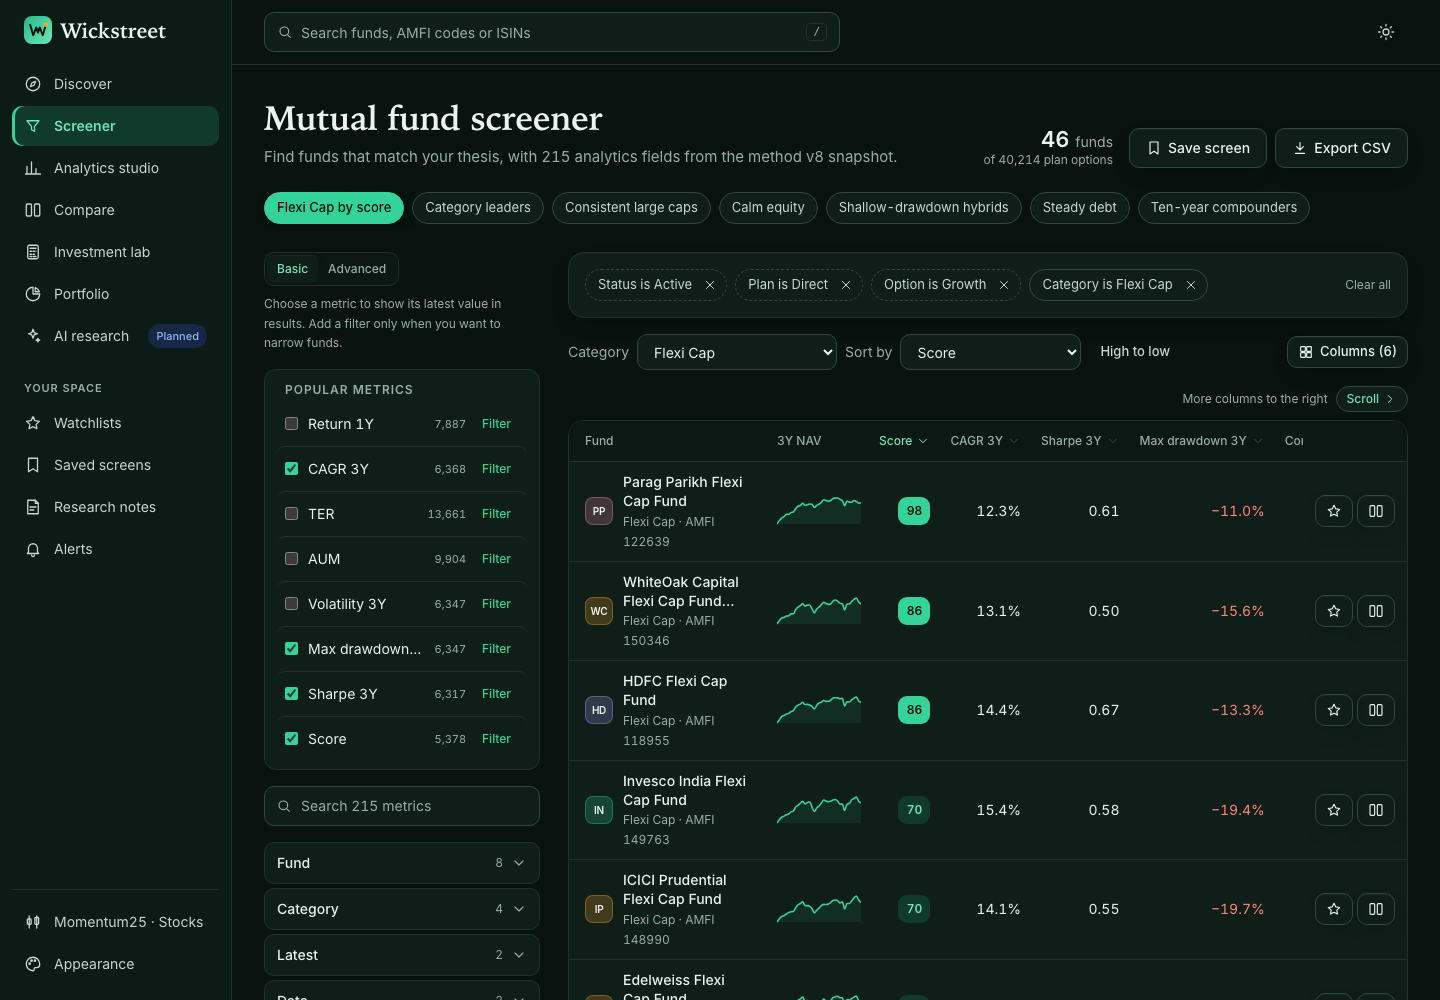
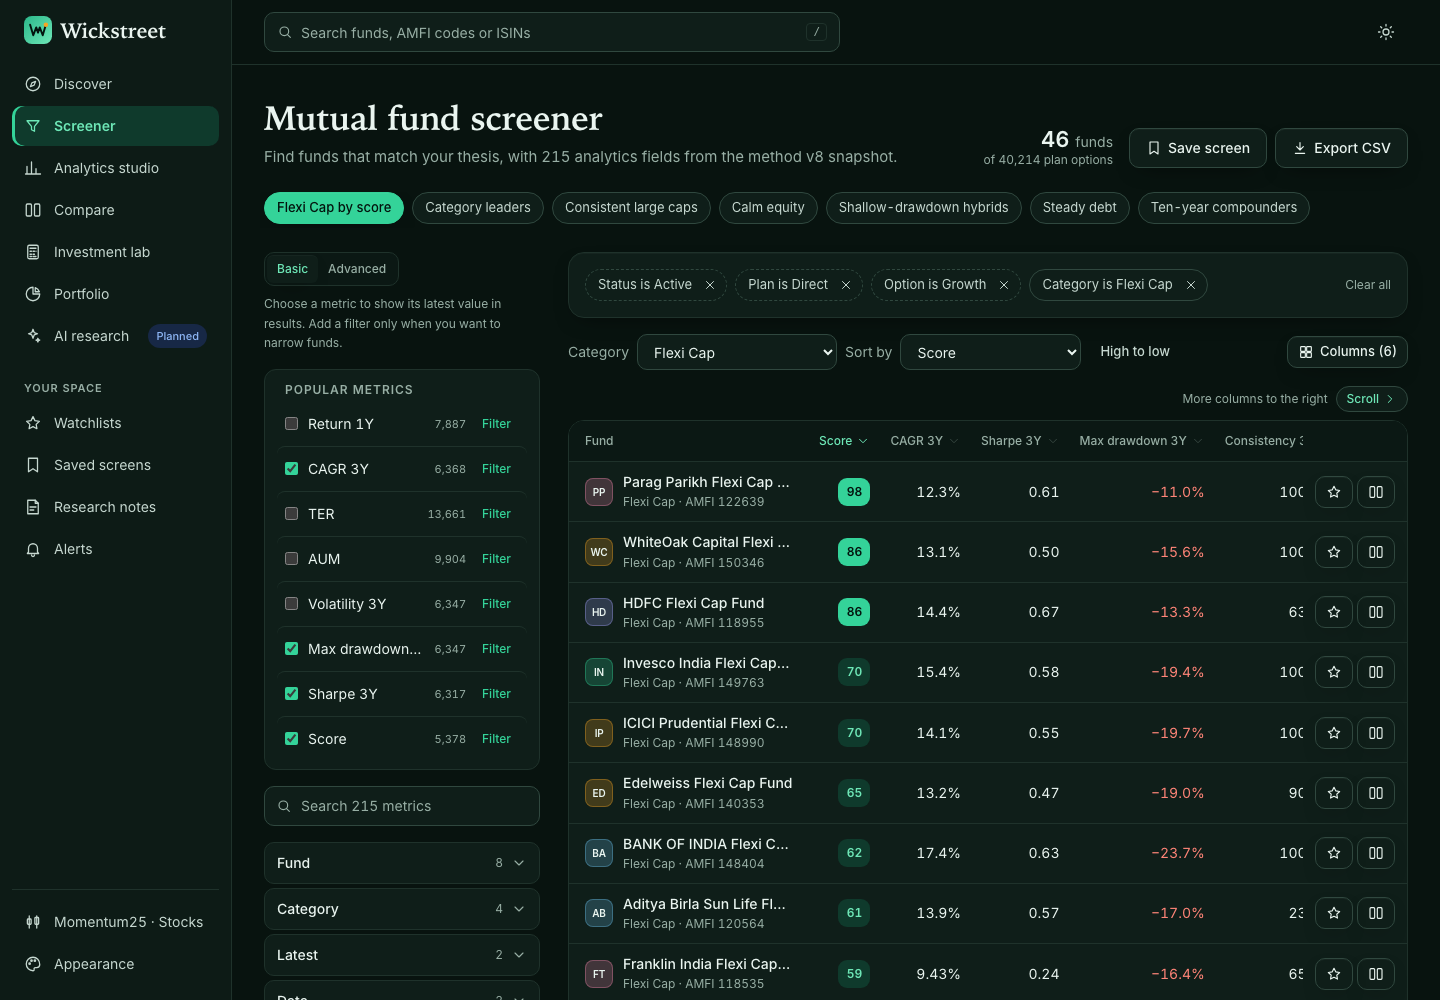
fix(wickstreet): denser screener results
Fund names sit on one line, the NAV line gives way when six or more
metrics are shown on narrower desktops, and phone cards carry their
watch and compare actions beside the name.

diff --git a/web/src/features/mf/components/screener/ResultsTable.tsx b/web/src/features/mf/components/screener/ResultsTable.tsx
@@ -59,6 +59,8 @@ export function ResultsTable({
   stale?: boolean;
 }) {
   const primary = sort[0];
+  // With six or more metrics the NAV line gives way on narrower desktops, so the chosen metrics fit (review 2, rank 3).
+  const compact = columns.length >= 6;
   // Width hidden to the right of the wide table, so a column never disappears without a cue (review 1, rank 3).
   const wide = useRef<HTMLDivElement>(null);
   const [hidden, setHidden] = useState(0);
@@ -98,7 +100,7 @@ export function ResultsTable({
               <th scope="col" className="sticky left-0 z-10 bg-mf-sunken px-4 py-3 text-left font-medium">
                 Fund
               </th>
-              <th scope="col" className="w-[96px] px-2 py-3 text-left font-medium">
+              <th scope="col" className={cx('w-[96px] px-2 py-3 text-left font-medium', compact && 'max-2xl:hidden')}>
                 3Y NAV
               </th>
               {columns.map((c) => {
@@ -124,7 +126,7 @@ export function ResultsTable({
                   <div className="flex items-center gap-2.5">
                     <FundMark amc={String(r.values.amc ?? '')} size="sm" />
                     <div className="min-w-0">
-                      <Link to={`/mf/funds/${r.amfi_code}`} className="line-clamp-2 font-medium leading-snug text-mf-ink hover:text-mf-brand-strong" title={r.name}>
+                      <Link to={`/mf/funds/${r.amfi_code}`} className="block truncate font-medium leading-snug text-mf-ink hover:text-mf-brand-strong" title={r.name}>
                         {schemeName(r.name)}
                       </Link>
                       <span className="text-xs text-mf-muted">
@@ -133,7 +135,7 @@ export function ResultsTable({
                     </div>
                   </div>
                 </th>
-                <td className="w-[96px] px-2 py-2">{line(r)}</td>
+                <td className={cx('w-[96px] px-2 py-2', compact && 'max-2xl:hidden')}>{line(r)}</td>
                 {columns.map((c) => (
                   <td key={c} className="whitespace-nowrap px-2.5 py-3 text-right">
                     <Cell row={r} column={c} fields={fields} />
@@ -163,7 +165,10 @@ export function ResultsTable({
                 </Link>
                 <p className="mt-0.5 text-xs text-mf-muted">{r.values.category ? categoryShort(String(r.values.category)) : `AMFI ${r.amfi_code}`}</p>
               </div>
-              <div className="w-20 shrink-0">{line(r)}</div>
+              <div className="flex shrink-0 gap-1">
+                <WatchButton code={r.amfi_code} name={r.name} />
+                <CompareButton code={r.amfi_code} name={r.name} />
+              </div>
             </div>
             <dl className="mt-3 grid grid-cols-3 gap-x-3 gap-y-2">
               {columns
@@ -178,10 +183,6 @@ export function ResultsTable({
                   </div>
                 ))}
             </dl>
-            <div className="mt-3 flex gap-2">
-              <WatchButton code={r.amfi_code} name={r.name} label />
-              <CompareButton code={r.amfi_code} name={r.name} label />
-            </div>
           </li>
         ))}
       </ul>

diff --git a/docs/plans/wickstreet-2/execution-ledger.md b/docs/plans/wickstreet-2/execution-ledger.md
@@ -20,6 +20,7 @@ Every backlog item also uses the product-wide interaction rule in [the design sy
 
 ## Current milestone evidence
 
+- Screener table pass (2026-10-24, review 2 rank 3, part): fund names on one line with the full name on hover; with six or more metrics the NAV sparkline column hides below 1536 px so the chosen metrics fit; phone cards put Watch and Compare as icon buttons beside the name (card height about half). Desktop 1440×1000 shows 9 result rows in the first viewport (was about 7). Still open: styled selects, histogram on the range control.
 - Independent review 2 (`ui-ux/premium-2026-10-24/REVIEW-2.md`) and fixes (2026-10-24). Review 2 verified review 1 ranks 7, 10, 14, 15 fixed; 1, 2, 3, 6, 8, 9, 11, 12 partly; 4, 5, 13 not. Fixed now: the phone key-facts strip no longer hides its six values from screen readers (axe `label-content-name-mismatch`, serious; phone axe now clean on fund, compare, ask and workspace, light and dark); the managers fact counts the scheme document's 7 names (the dated list parses 6: Ms. Mansi Kariya has no date, a parser gap) and says "read 24 Oct 2026", the date Wickstreet read the document, not a filing date; Sharpe says its risk-free rate is the window average (6.25%, Discover shows today's T-bill 5.73%); the phone legend keeps "Proxy, not benchmark"; the phone actions row fades at its edge; Ask shows no internal codes; Compare's examples are PPFAS, ICICI Prudential Flexi Cap and HDFC Flexi Cap, so the first comparison shows shared holdings (PPFAS and ICICI 24.3%, portfolios of 30 Sep 2026); Compare's five answers fit the first 390×844 screen (was one). Open, for later or the owner: screener table redesign and histogram (review 2 ranks 3, 6); AMC brand aliases and duplicate AMC names (rank 4, data); "Calm equity" admits sector funds (rank 10, preset definition: owner decision); growth axes from ₹0 (rank 11, shared axis logic). MF E2E 82/82, vitest 216/216.
 - Premium transformation, milestone 3 (2026-10-24): review 1 rank 9 fixed, every Sharpe tile prints its risk-free rate (PPFAS 3Y: 0.61, risk-free 6.25%); rank 6 fixed, a refine range also states the range of the funds on screen once every match is loaded ("The 46 funds shown run from …"); Workspace sections never open empty: watchlists offer recent or example funds with a star, saved screens, scenarios and notes link to the tool that makes them. `FundRow` is shared by Discover and Workspace. Capture script now covers 9 routes (adds Workspace and Ask). MF E2E 82/82, vitest 216/216.
 - Independent review 1 (`ui-ux/premium-2026-10-24/REVIEW-1.md`) and fixes (2026-10-24). Fixed: rank 1, phone fund page now shows identity, actions, score, 1Y/3Y/worst fall and all six key facts on the first 390×844 screen (was 0 of 6), with ≥ 80 px of plot above the navigation (the fixed action bar became an inline, sideways-scrolling "Fund actions" row); rank 2, the dashed line reads "Large-cap proxy, not the benchmark" and the Benchmark fact says so; rank 3, the screener shows "More columns to the right" with a Scroll button while columns are hidden, fund column 240 px; rank 6 (part), range placeholders "Any", range text names its scope (all plan options); rank 7, asset bar adds a labelled "Other" share; rank 8, managers carry the scheme-document date, Essentials shows launch (NFO) and allotment dates, window "Max" renamed "All"; rank 10, the phone Appearance icon is a palette, not a second sun; rank 12, Discover ideas lead with scored funds and chips wrap; rank 14, fall bands are one faint neutral hue; rank 15, fact sources 12 px. Ranks 11 and 13 were partly fixed in milestone 2. Open: rank 4 (deeper screener redesign), rank 5 (AMC brand aliases and duplicate AMC names: a data fix), rank 6 (current-set range and histogram), rank 9 (show Sharpe's risk-free rate and window beside the number), rank 13 (growth axes start at ₹0 by design; revisit). Mobile Fund Overview median of 5: LCP 2.17 s, CLS 0.058, 541 kB. MF E2E 82/82 on the rebuilt container, vitest 216/216.
